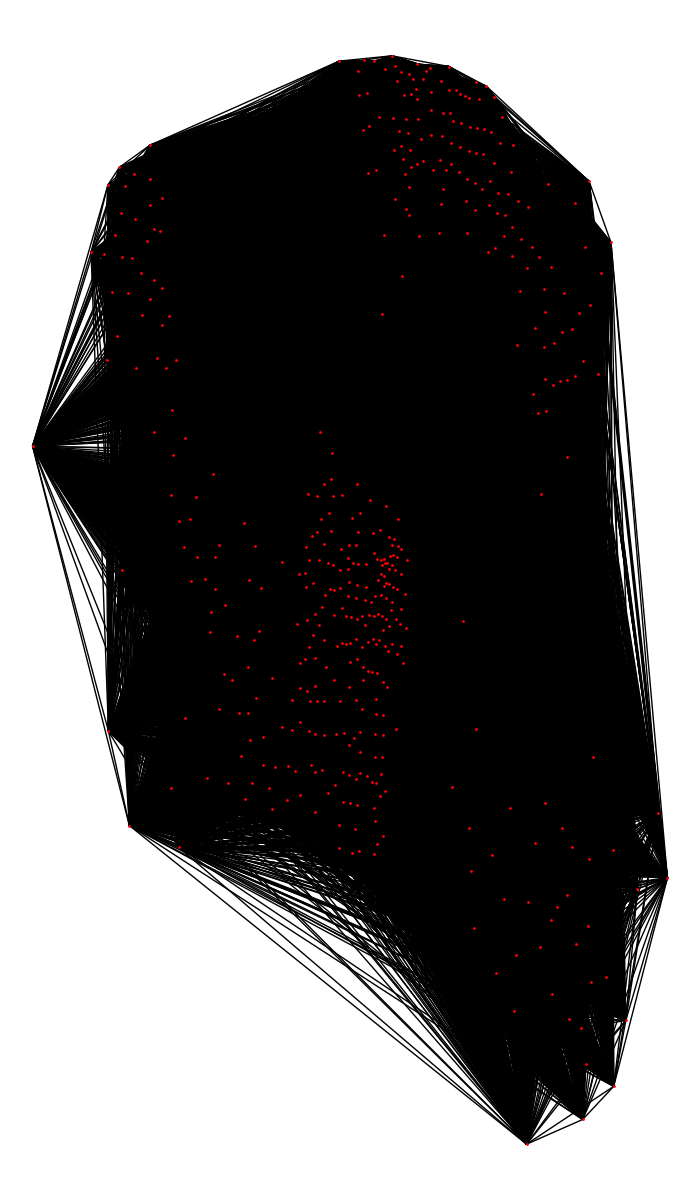
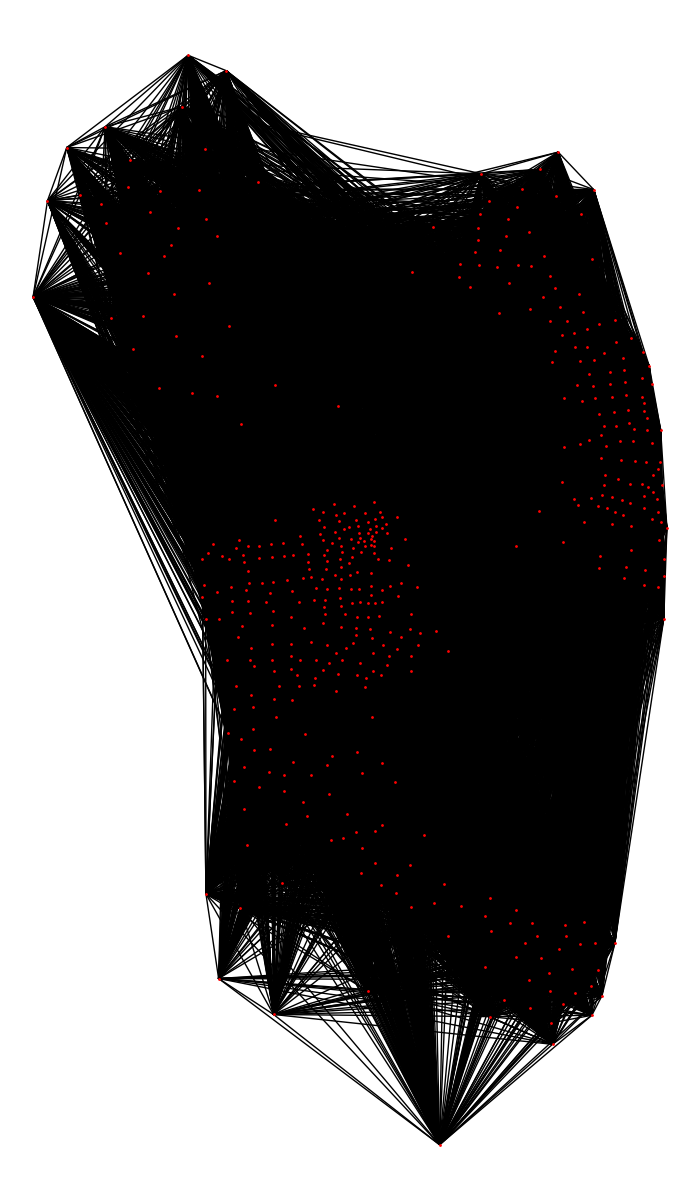
Fixed plotting

diff --git a/geo_data_setup.py b/geo_data_setup.py
@@ -140,7 +140,6 @@ def draw_map(filename, zone_filter=None, plot_centroids=False, plot_edges=False,
         for edge in graph.Edges():
             start = (lat_longs[edge.GetSrcNId()][0], lat_longs[edge.GetSrcNId()][1])
             end = (lat_longs[edge.GetDstNId()][0], lat_longs[edge.GetDstNId()][1])
-            print(start, end)
             ax.plot([start[0], end[0]], [start[1], end[1]], color='g', linewidth='1')
     # Plot centroids
     if plot_centroids:
@@ -321,7 +320,7 @@ def draw_graph(graph, filename, attributes=True):
     # New nx graph
     nx_graph = nx.Graph()
     for node in graph.Nodes():
-        nx_graph.add_node(node.GetId(), pos=(lat_longs[node.GetId()][1],lat_longs[node.GetId()][0]))
+        nx_graph.add_node(node.GetId(), pos=(lat_longs[node.GetId()][0],lat_longs[node.GetId()][1]))
     for edge in graph.Edges():
         if attributes:
             nameV = snap.TStrV()
@@ -373,24 +372,17 @@ def main():
         modify_distance_graph()
 
     # Step 3: Draw map using boundary data in .shp file and graph
-    if True:
+    if False:
         # Draw map with zones and centroids
-        draw_map(filename=MAP_IMAGE_PATH, plot_centroids=True)
+        #draw_map(filename=MAP_IMAGE_PATH, plot_centroids=True)
         # Draw map with zones, centroids, and edges based on borders
-        FIn = snap.TFIn(BORDER_GRAPH_PATH)
-        graph = snap.TUNGraph.Load(FIn)
-        draw_map(filename=UBER_ZONE_BORDER_IMAGE_PATH, plot_centroids=True, plot_edges=True, graph=graph)
+        #FIn = snap.TFIn(BORDER_GRAPH_PATH)
+        #graph = snap.TUNGraph.Load(FIn)
+        #draw_map(filename=UBER_ZONE_BORDER_IMAGE_PATH, plot_centroids=True, plot_edges=True, graph=graph)
         # Draw map with zones, centroids, and edges based on trips
         FIn = snap.TFIn(FINAL_UBER_GRAPH_PATH)
         graph = snap.TNEANet.Load(FIn)
         draw_map(filename=FINAL_UBER_GRAPH_IMAGE_PATH, plot_centroids=True, plot_edges=True, graph=graph)
-
-    # Draw new map
-    if False:
-        draw_new_map()
-
-    if False:
-        modify()
 
     # Draw border uber graph (edges based on zone borders)
     if False:
@@ -400,7 +392,7 @@ def main():
         draw_graph(graph, UBER_ZONE_BORDER_IMAGE_PATH, attributes=False)
 
     # Draw final uber graph (edges based on trips)
-    if False:
+    if True:
         # Load graph 
         FIn = snap.TFIn(FINAL_UBER_GRAPH_PATH)
         graph = snap.TNEANet.Load(FIn)
